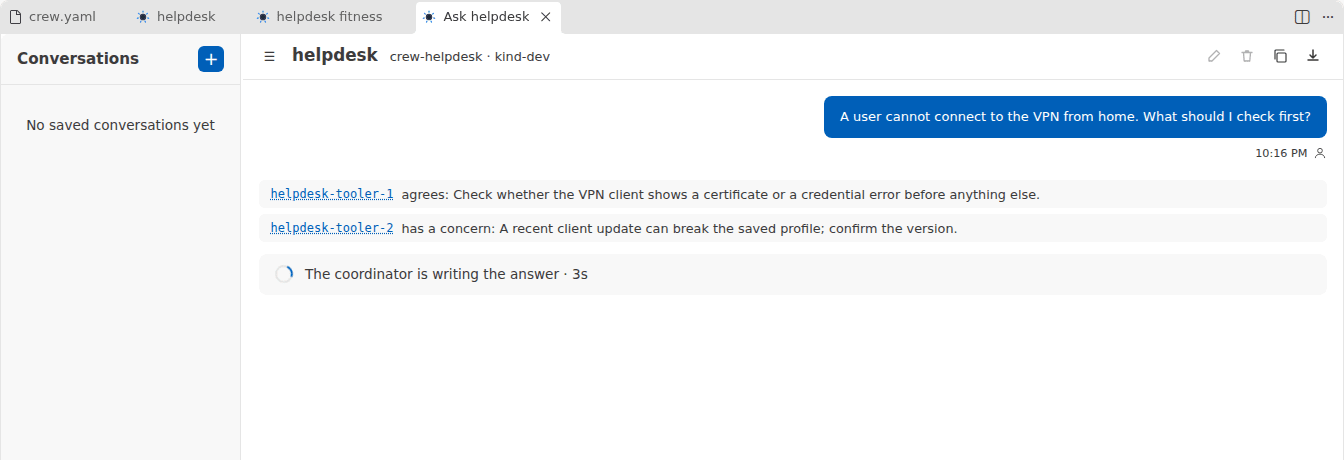
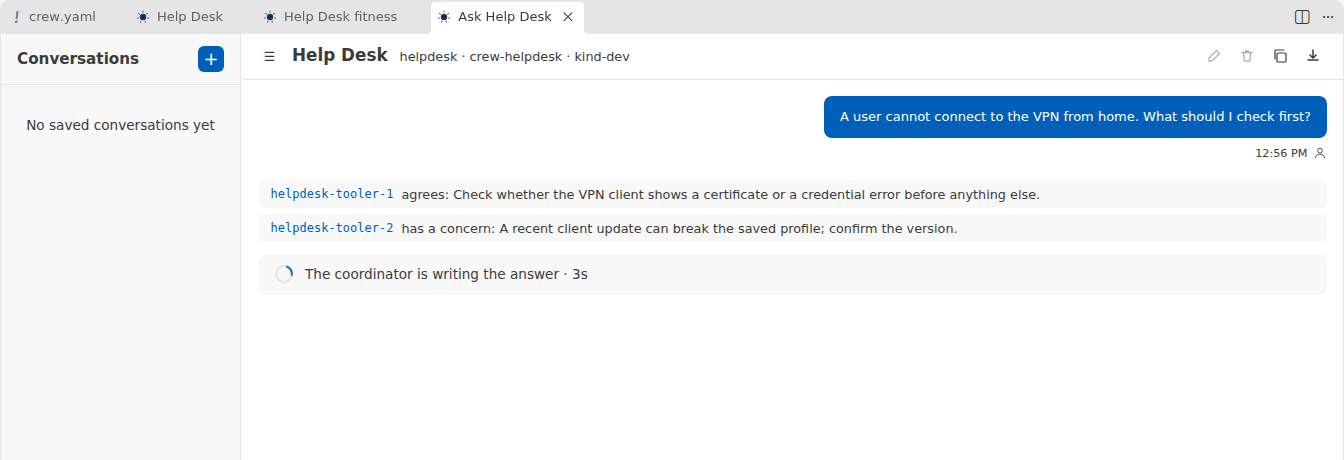
docs(crewforge): display names, a flat Deployed Crews list, and fitness batches
The CrewForge pages describe naming a crew in plain words and the
Kubernetes name derived from it, Rename for either name, the flat
Deployed Crews list with Group by Namespace, the scenarios a live crew
carries, and running them all, as a picked batch, or one at a time.
The screenshots are regenerated, and live-fitness.png is new.

Changed region(s): [[0.125, 0.0, 0.4688, 0.1522], [0.2188, 0.487, 0.2812, 0.5174], [0.2188, 0.4261, 0.2812, 0.4565]]

diff --git a/content/en/docs/ecosystem/crewforge/views-and-dashboards.md b/content/en/docs/ecosystem/crewforge/views-and-dashboards.md
@@ -24,12 +24,19 @@ Click the Kubemoot mark in the activity bar. Two views share the side bar.
 
 ### Deployed Crews
 
-The crews running on the cluster, grouped by namespace. The first items say what
-CrewForge is connected to and open the **Crews Overview**. A green mark means ready.
+The crews running on the cluster. The first items say what CrewForge is connected to and
+open the **Crews Overview**; that row stays first. A green mark means ready.
 
-A crew's line shows its phase, agent count, chart version, and whether its source is open
-in the workspace (*source open* or *no local source*). Hover for its namespace, labels,
-creation time, archetype, and status conditions.
+By default the view is a flat list: one row per crew, sorted by namespace and then name.
+A row is labeled with the crew's display name and reads
+`<namespace>[/<kubernetes name when different>] · <phase>, <N> agents[, vX] · source open|no local source`.
+The Kubernetes name appears only when it differs from the display name. Hover for its
+namespace, labels, creation time, archetype, and status conditions.
+
+**Group by Namespace** (the list-tree icon on the title bar) nests the crews under their
+namespaces. **Show as a Flat List** switches back. CrewForge remembers the choice for each
+workspace. A namespace that cannot be read shows as an error row, "Cannot read namespace
+`<ns>`: `<reason>`", in both modes.
 
 Expand a crew to see every part of it, read from the cluster, in this order. A group with
 nothing in it says *none*; hover a group for the rule that puts an object in it.
@@ -59,7 +66,8 @@ nothing in it says *none*; hover a group for the rule that puts an object in it.
   MootArchetype it runs. Hover a policy for what it governs.
 - **Notifications**: the NotificationSinks in the namespace that fire for the crew's
   agents. The tooltip shows only the webhook's host.
-- **Fitness**: the CrewFitnessSuites and CrewFitness runs whose `crewRef` names the crew.
+- **Fitness**: the scenarios deployed with the crew, then its past runs. See
+  [Live Fitness group](#live-fitness-group).
 - **Deployment**: the channel (Helm, Flux, or a kubectl bundle), the chart and version,
   the release, the Flux object, what a CrewForge deploy recorded (source, revision, who,
   and when), and the operator's KubemootConfig.
@@ -67,6 +75,37 @@ nothing in it says *none*; hover a group for the rule that puts an object in it.
 An object that is not the crew's own (a ModelProvider in `kubemoot`, another crew's
 Model, the cluster's archetype) is marked **shared**, and its tooltip says who owns it.
 CrewForge only shows it.
+
+#### Live Fitness group
+
+![The Deployed Crews view with the Help Desk crew expanded. Its Fitness group reads "4 scenarios, 2 runs" and lists four scenario rows and a past run.](../live-fitness.png)
+
+The **Fitness** group lists the scenarios deployed with the crew, then its past runs.
+Scenarios come from the ConfigMaps labeled `kubemoot.ai/crew=<crew>` and
+`kubemoot.ai/fitness-kind=scenarios`. A key ending in `.yaml` holds CrewFitness or
+CrewFitnessSuite manifests; a key ending in `.adl` or `.md` (other than `README.md`) holds
+one script named after the key. The group reads `<n> scenarios · <m> runs`, plus *changed
+since deploy* when an open workspace source's scenarios differ from the deployed ones. It
+works with no local source open.
+
+Runs from here always use the deployed scenarios, and the tooltips say so. The actions:
+
+- **Run All Deployed Scenarios**: one click runs every scenario once, as a suite named
+  `<crew>-all-<timestamp>`.
+- **Run Scenarios...**: a multi-select pick of every scenario with its DESCRIPTION, all
+  checked, then an iteration count of 1, 3, 5, 10, or another number up to 100. It starts
+  one CrewFitnessSuite named `<crew>-batch-<n>-<timestamp>`, or `<crew>-all-...` when you
+  keep every scenario.
+- **Run This Scenario Only**: one iteration of that scenario.
+- **Show Scenario Script**: opens the script.
+- **Pause**, **Resume**, and **Stop**, inline on a run in progress.
+
+Select several scenario rows together and choose **Run Selected Scenarios as One Batch**
+to run them as one suite after the iterations prompt. **Run Scenarios...** and **Run
+Selected Scenarios as One Batch** also work in Crew Sources, on a source's **Fitness
+Scenarios**, against its deployment. Each batch is one CrewFitnessSuite, judged together,
+with one XLSX, and the fitness dashboard opens on it. See
+[Fitness from the editor](../fitness/).
 
 Click any item for its live YAML in a read-only editor. The title bar has **Create Crew**,
 **Open Crews Overview**, **Refresh Deployed Crews**, **Continue a Conversation**, and
@@ -84,7 +123,7 @@ source. A Flux-managed crew changes only through git.
 
 The crews in your workspace: Helm charts whose templates declare a Kubemoot Crew, and
 folders of plain manifests that include one (a bundle). Each source reads as its crew's
-name, with where it stands on its line: *deployed in crew-helpdesk, changed*, *deployed in
+display name, with where it stands on its line: *deployed in crew-helpdesk, changed*, *deployed in
 crew-helpdesk, in sync*, or *not deployed*.
 
 Each source expands to what it declares, in the same groups as Deployed Crews: the Crew,
@@ -122,7 +161,8 @@ of its files updates it by itself. **Refresh** stays on the title bar as a fallb
 source whose render fails shows the error as an item.
 
 The title bar has **Create Crew** (the **+**) and **Refresh Crew Sources**. **Create
-Crew** asks for a name, a size from 1 to 5 (the number of specialists beside the
+Crew** asks for a display name, then a Kubernetes name (prefilled from the display name and
+editable), a size from 1 to 5 (the number of specialists beside the
 coordinator: `workloads`, then `events`, `networking`, `config`, and a `reviewer`), and a
 model family, and needs `kmctl` 0.14.0 or later. In the
 Explorer, **New Kubemoot Crew Here** is on folders outside crew sources and **View in
@@ -142,11 +182,20 @@ the first item of Deployed Crews. It is a table of every deployed crew your kube
 can see: name, namespace, phase and readiness, agents ready out of total, chart version,
 channel (helm, bundle, flux), last deploy time, the turn answering now, recent problems,
 and whether a local source is open. Click a crew for its dashboard. The header says what
-CrewForge is connected to.
+CrewForge is connected to. The Kubernetes name sits beside the display name.
+
+### Where the display name shows
+
+A crew's display name is the name people read. It appears in the Deployed Crews and Crew
+Sources labels, the crew dashboard's heading and tab title (with the Kubernetes name beside
+where it runs), the fitness dashboard's tab (`<display name> fitness`) and heading, the
+chat's tab title and heading (the Kubernetes name shows on hover and beside the namespace),
+and the Crews Overview table. A crew without a display name shows its Kubernetes name.
 
 ### Crew dashboard
 
-Click a crew in Crew Sources or Deployed Crews. The tab is titled with the crew's name.
+Click a crew in Crew Sources or Deployed Crews. The tab is titled with the crew's display
+name.
 Its buttons are **Deploy to Namespace...**, **Redeploy**, **Undeploy**, **Ask**, **Run
 Fitness**, **Fitness Runs**, **Lint**, **Show YAML**, and **Refresh**. A button that does
 not apply is disabled, with the reason in its tooltip. Four tabs sit under the buttons.
@@ -188,8 +237,10 @@ deployed, and **Select Kubernetes Context** when the cluster cannot be reached.
 
 ### Fitness dashboard
 
-Click a **Fitness** node, a run, or **Open Fitness Dashboard**. It shows the crew's runs
-and the selected one in detail, with **Pause**, **Resume**, and **Stop**. See
+Click a **Fitness** node, a run, or **Open Fitness Dashboard**. The tab reads
+`<display name> fitness` and the heading `Fitness: <display name>`. It shows the crew's runs and the selected one in detail, with
+**Pause**, **Resume**, and **Stop**. A live crew that carries deployed scenarios can run
+from here without a source. See
 [Fitness from the editor](../fitness/).
 
 ### Where the numbers come from
@@ -274,7 +325,7 @@ menu button.
 
 | Action | When to use it | What it changes |
 |---|---|---|
-| **Create Crew** / **New Kubemoot Crew Here** | Start a new crew | A new chart folder on disk, written by `kmctl create --chart`: the starter crew, a read-only guide to its namespace, with 1 to 5 specialists as you choose. Nothing on the cluster. |
+| **Create Crew** / **New Kubemoot Crew Here** | Start a new crew | A new chart folder on disk, written by `kmctl create --display-name ... --chart`: the starter crew, a read-only guide to its namespace, with 1 to 5 specialists as you choose. Nothing on the cluster. |
 | **Deploy to Namespace...** | Deploy a crew, here or to one more namespace | `helm upgrade --install` (a bundle: `kubectl apply --server-side`) into the namespace you pick. The last one, else `crew-<name>`, is offered, and Redeploy then uses it. Records the source on the Crew and waits until it is ready. |
 | **Redeploy** (on a source) | After editing a deployed crew | The same release in the namespace you last deployed to, upgraded from the source. Waits for the agents again. |
 | **Redeploy** (on a deployment or a deployed crew) | A deployment is behind its source | That deployment, through the channel it came by. A bundle applies only the objects that differ. |
@@ -284,7 +335,8 @@ menu button.
 | **Follow Flux Rollout (GitOps channel)** | A crew Flux manages, after you push | Nothing. It follows the HelmRelease until it settles. |
 | **Undeploy** | Take a crew out of a namespace | `helm uninstall` of its release, or deletes the Kubemoot objects the bundle renders. The operator's finalizers clean up the rest. The namespace stays unless the Crew and the namespace opt in to its deletion. |
 | **Delete Source... (move folder to trash)** | Throw away a crew you no longer want | The source folder moves to your trash after a confirmation that names it. If the crew is deployed, it offers to undeploy first. A workspace folder, or a folder holding another crew source, is refused. The cluster does not change otherwise. |
-| **Rename...** | Give a crew a new name | The chart name, the Crew, every name built on the crew's (agents, PromptModules, policy, fitness suites) and the references to them, and the folder when it carries the crew's name. Other keys, prompt text, and `.tpl` helpers stay as they are. A deployed crew keeps its old name: redeploy to deploy the new one, and undeploy the old one. |
+| **Rename...** > **Change the Display Name** | Change the name people read | The `kubemoot.ai/display-name` annotation in the source (and `Chart.yaml` for a chart), and on each deployed copy right away, with no redeploy. A copy Flux deploys takes it from git: commit and push. |
+| **Rename...** > **Change the Kubernetes Name...** | Give a crew a new Kubernetes name | The chart name, the Crew, every name built on the crew's (agents, PromptModules, policy, fitness suites) and the references to them, and the folder when it carries the crew's name. Other keys, prompt text, and `.tpl` helpers stay as they are. A deployed crew keeps its old name: redeploy to deploy the new one, and undeploy the old one. |
 | **Compare Source with Live (normalized diff)** | See how a deployed object differs from its source | Nothing. |
 | **Show Source YAML** / **Show Live YAML** / **Show Live YAML (raw)** | Look at one side alone | Nothing. |
 | **Lint (helm lint and schema check)** | Before deploying, or any time | Nothing. Findings go to the Problems panel. |
@@ -292,7 +344,8 @@ menu button.
 | **Remove from Source...** | Take a part out of a crew's source | Its file moves to the trash, or its document leaves a file that holds others, after a confirmation. Nothing on the cluster until you deploy. |
 | **Show Tool Details** | See where a tool comes from and what it takes | Nothing. A read-only page. |
 | **Ask** | Try a deployed crew | Nothing on the cluster. The chat is a discussion turn. |
-| **Run Fitness** | Measure a deployed crew | Creates a fitness run (a Kubemoot object) in the crew's namespace. |
+| **Run Fitness** | Measure a deployed crew | Creates a fitness run (a Kubemoot object) in the crew's namespace. On a live crew it runs the deployed scenarios when it carries any, else the source's definitions. |
+| **Run All Deployed Scenarios** / **Run Scenarios...** / **Run Selected Scenarios as One Batch** | Measure a deployed crew's scenarios as one batch | One CrewFitnessSuite in the crew's namespace, named `<crew>-all-<timestamp>` or `<crew>-batch-<n>-<timestamp>`. |
 | **Run This Scenario Only** | Try one scenario after changing a prompt | One fitness run of one scenario, one iteration, marked so its dashboard offers Stop. |
 | **Add / Rename / Delete Fitness Scenario** | Grow or tidy a crew's scenarios | Local files in the fitness folder only. Delete moves a file to the trash after a confirmation. |
 | **Pause** / **Resume** / **Stop** (fitness dashboard) | Hold or end a running suite | Sets `spec.suspend` or `spec.cancel` on the suite. See [Fitness from the editor](../fitness/). |

diff --git a/content/en/docs/ecosystem/crewforge/develop-a-crew.md b/content/en/docs/ecosystem/crewforge/develop-a-crew.md
@@ -24,10 +24,16 @@ first.
 
 ![The Explorer's context menu on a folder named notes, ending with the entry New Kubemoot Crew Here.](../explorer-new-crew.png)
 
-CrewForge asks for three things:
+CrewForge asks for these, in order:
 
-1. **A name**, for example `helpdesk`.
-2. **How many specialists** to start with, 1 to 5. The scaffold adds a coordinator and that
+1. **A display name**: the name people read, any text, for example `Help Desk`,
+   `Homelab Health Guide`, or `Lab-Ops Crew #2`.
+2. **A Kubernetes name**, in a second input prefilled with a name derived from the display
+   name. You can edit it. It becomes the Kubernetes name of the crew's objects, so
+   CrewForge checks it: "Use lowercase letters, digits and hyphens, starting and ending
+   with a letter or digit; it becomes the Kubernetes name of the crew's objects." It also
+   says "Keep it to 36 characters" when the name is longer.
+3. **How many specialists** to start with, 1 to 5. The scaffold adds a coordinator and that
    many specialists, so `2` gives three agents. Each size is a working crew; it adds the
    next specialist in this order:
 
@@ -38,9 +44,24 @@ CrewForge asks for three things:
    | 3 | `networking`: Services, endpoints, routes, NetworkPolicies |
    | 4 | `config`: ConfigMaps, ServiceAccounts, Secret references |
    | 5 | `reviewer`: checks the answer against the gathered data |
-3. **A model family**: `qwen`, `gemma`, `llama`, or `mistral`.
+4. **A model family**: `qwen`, `gemma`, `llama`, or `mistral`.
 
-CrewForge then runs `kmctl create helpdesk --chart` and writes the crew as a Helm chart
+The derived Kubernetes name follows these rules: lowercase; accented letters become their
+ASCII spelling (the accented e becomes `e`, the German sharp s becomes `ss`, and letters
+such as the ligature ae, o with a stroke, l with a stroke, eth, and thorn become `ae`, `o`,
+`l`, `d`, and `th`); every run of other characters becomes one hyphen; no hyphen at either
+end; at most 36 characters; and `crew` when nothing is left.
+
+| Display name | Kubernetes name |
+|---|---|
+| `Homelab Health Guide` | `homelab-health-guide` |
+| `Lab-Ops Crew #2` | `lab-ops-crew-2` |
+| A Japanese name with no ASCII letters | `crew` |
+
+Creating a crew needs a `kmctl` whose `create` takes `--display-name`. CrewForge checks
+`kmctl create --help` first and names the problem in a modal before it asks anything.
+
+CrewForge then runs `kmctl create helpdesk --display-name "Help Desk" --chart` and writes the crew as a Helm chart
 in a folder named `helpdesk`. kmctl asks the cluster which model providers exist and
 generates Models for them.
 
@@ -60,6 +81,7 @@ helpdesk/
     models.yaml          the Models the scheduler can bind agents to
     tools.yaml           the read-only Kubernetes MCP server and its gateway
     rbac.yaml            the Role the tool server runs with
+    fitness-scenarios.yaml   a ConfigMap carrying the fitness scenarios
   fitness/
     fitness.yaml         a starter fitness suite
 ```
@@ -70,7 +92,9 @@ suite has 3 scenarios at size 1 and up to 7 at size 5, and they pass on a fresh 
 The [starter crew](../../../user-guides/starter-crew/) guide describes it in full.
 
 The fitness suite sits outside `templates/` on purpose, so installing the chart does not
-start a run.
+start a run. The scenarios do ship in `templates/fitness-scenarios.yaml`, a ConfigMap
+labeled `kubemoot.ai/crew` and `kubemoot.ai/fitness-kind: scenarios`, so a deployed crew
+carries them and CrewForge can run them without the source. A ConfigMap starts nothing.
 
 ## 2. Understand what it declares
 
@@ -127,6 +151,19 @@ Whenever a file of the crew is open, the status bar names the crew and where it 
 
 Click it for the next steps in that state. Above each object in a crew manifest, a code
 lens shows the same drift check.
+
+### Rename a crew
+
+Right-click a crew source and choose **Rename...**. A picker offers two choices:
+
+- **Change the Display Name**: what people read; no redeploy. CrewForge edits the Crew's
+  `kubemoot.ai/display-name` annotation in the source file (and in `Chart.yaml` for a
+  chart), and sets it on each deployed copy right away, without a redeploy. A copy that
+  Flux deploys takes the new name from git, so commit and push the change.
+- **Change the Kubernetes Name...**: renames every object built on it: the chart, the Crew,
+  the agents, the prompt modules, the policy, and the fitness suites. A deployed crew keeps
+  the old name until you redeploy it as a new crew. A display name that was the old
+  Kubernetes name follows the new one.
 
 ## 4. Lint it
 

diff --git a/content/en/docs/ecosystem/crewforge/fitness.md b/content/en/docs/ecosystem/crewforge/fitness.md
@@ -25,10 +25,46 @@ each CrewFitnessSuite, each CrewFitness, and loose `.adl` (ADL) and `.md` (prose
 
 These three change local files only.
 
+## Scenarios on a live crew
+
+A crew made by `kmctl create` deploys its scenarios in a ConfigMap, so a running crew
+carries them. In **Deployed Crews**, the crew's **Fitness** group lists them with its past
+runs, for example `4 scenarios · 2 runs`, and adds *changed since deploy* when an open
+source's scenarios differ. It works with no local source open.
+
+![The Deployed Crews view with the Help Desk crew expanded: its Fitness group reads "4 scenarios, 2 runs", with four scenario rows and a past run.](../live-fitness.png)
+
+Scenarios come from ConfigMaps labeled `kubemoot.ai/crew=<crew>` and
+`kubemoot.ai/fitness-kind=scenarios`. A key ending in `.yaml` holds CrewFitness or
+CrewFitnessSuite manifests; a key ending in `.adl` or `.md` (other than `README.md`) holds
+one script named after the key. Runs from this group always use the deployed scenarios,
+and the tooltips say so.
+
+- **Run All Deployed Scenarios** runs every scenario once, as a suite named
+  `<crew>-all-<timestamp>`.
+- **Run Scenarios...** shows every scenario with its DESCRIPTION, all checked. Pick the
+  ones to keep, then an iteration count: 1, 3, 5, 10, or another number up to 100. It
+  starts one CrewFitnessSuite named `<crew>-batch-<n>-<timestamp>`, or `<crew>-all-...`
+  when you kept every scenario.
+- **Run This Scenario Only** runs one iteration of one scenario.
+- **Show Scenario Script** opens the script.
+- **Pause**, **Resume**, and **Stop** appear inline on a run in progress.
+
+Rows can be selected together. **Run Selected Scenarios as One Batch** runs the selected
+scenarios as one suite after the iterations prompt. **Run Scenarios...** and **Run Selected
+Scenarios as One Batch** also work in **Crew Sources**, on a source's **Fitness
+Scenarios**, against its deployment.
+
+Each batch is one CrewFitnessSuite, judged together, with one XLSX. Its fitness dashboard
+opens on it. CrewForge refuses to start while another run of that crew is in progress and
+names that run. Selected rows from two crews or two sources are refused, with "CrewForge
+runs one crew's batch at a time". An empty selection is said plainly.
+
 ## Run a crew's fitness
 
 Choose **Run Fitness** on a source, on a deployment, on a deployed crew, in the status
-bar menu, or in the crew dashboard. CrewForge offers the fitness definitions the source
+bar menu, or in the crew dashboard. On a live crew that carries deployed scenarios, it
+runs those; otherwise CrewForge offers the fitness definitions the source
 renders, plus any in its `fitness/` folder, and starts a run under a timestamped name so
 every run is kept. The run is a Kubemoot resource in the crew's namespace.
 
@@ -38,15 +74,19 @@ every run is kept. The run is a Kubemoot resource in the crew's namespace.
 
 To try one scenario after changing a prompt, choose **Run This Scenario Only** (the play
 icon) on a scenario. It starts one iteration of that scenario against the deployment
-that Redeploy goes to, as a suite of that one script, or as a CrewFitness. The run is
-marked so its dashboard offers **Stop**.
+that Redeploy goes to, as a CrewFitnessSuite of that one script named
+`<crew>-<scenario>-<timestamp>`, whether the scenario is a suite's script, a CrewFitness,
+or a script file. The run is marked as a single-scenario run, and its Fitness dashboard
+opens on it.
 
 After a redeploy, the notification's **Rerun fitness** button runs the definition you ran
 last, without asking.
 
 ## The fitness dashboard
 
-Click a **Fitness** node, a run, or **Open Fitness Dashboard**.
+Click a **Fitness** node, a run, or **Open Fitness Dashboard**. The tab reads
+`<display name> fitness` and the heading `Fitness: <display name>`. A live crew that carries deployed scenarios can run from the
+dashboard without a source.
 
 ![The fitness dashboard for the helpdesk crew while a suite runs: two runs listed, the running suite at 4 of 6 iterations with a progress bar, Pause and Stop buttons, and a per-scenario table.](../fitness-dashboard.png)
 
